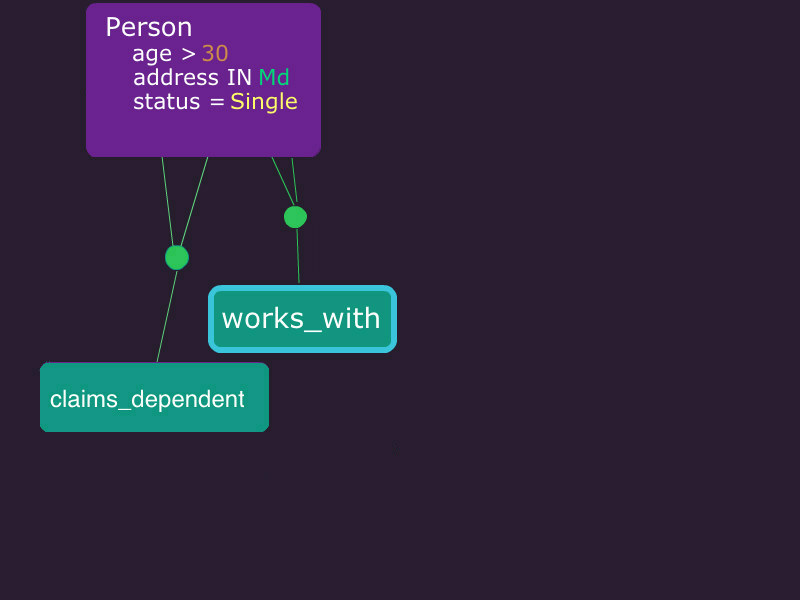
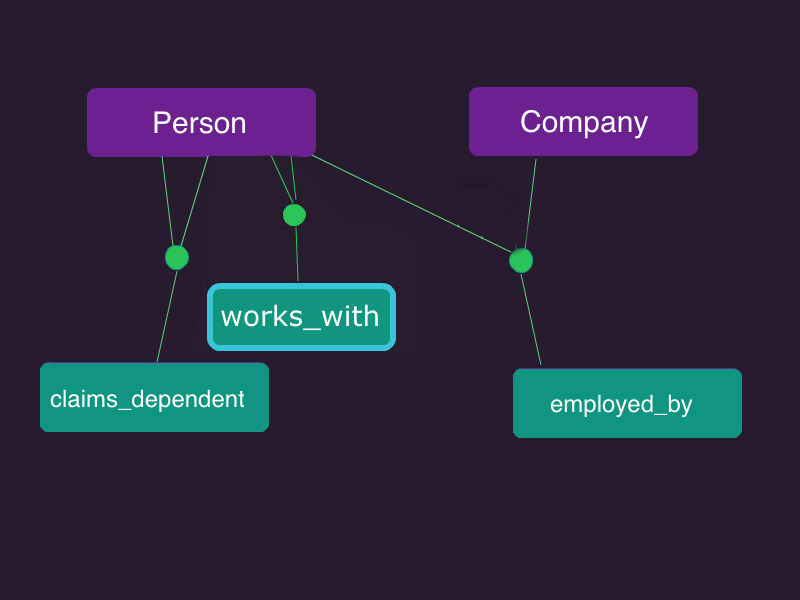
walkthru images updated

diff --git a/src/ModelPage.js b/src/ModelPage.js
@@ -33,7 +33,7 @@ class ModelPage extends Component {
         newGraph: 'assets/createEdges.jpg',
[1 lines of base64/hex data omitted]
       }, {
-        title: "Create Hyperedges",
+        title: "Create Relationship Roles",
         gist: '4789af32d8a408524a68473a7997f3fb',
         oldGraph: 'assets/createEdges.jpg',
         newGraph: 'assets/createHyperedges.jpg',

diff --git a/src/Subgraph.js b/src/Subgraph.js
@@ -48,7 +48,7 @@ class Subgraph extends Component {
                   <option>equals</option>
                   <option>less than</option>
                   <option selected>greater than</option>
-                  <option>within</option>
+                  <option disabled>within</option>
                 </select>
               </div>
               <div className="cell small-4">
